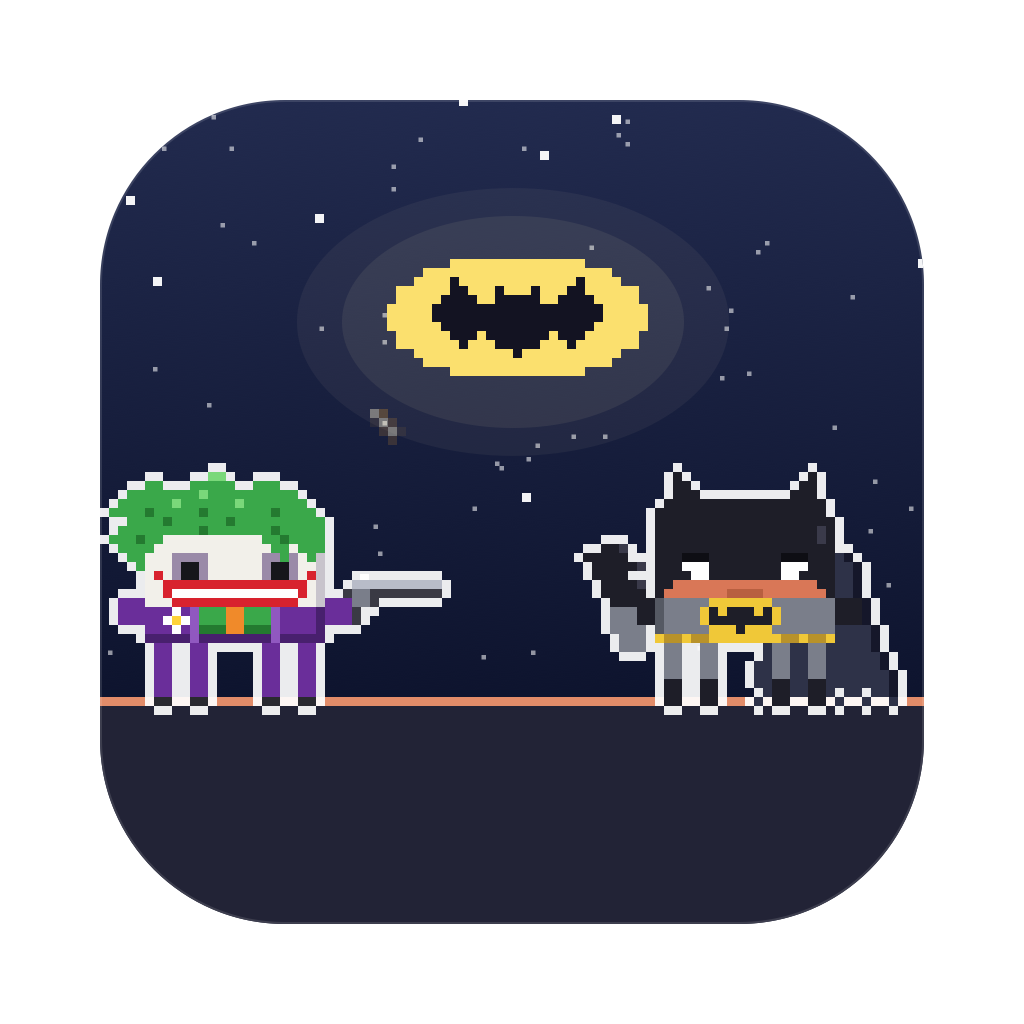
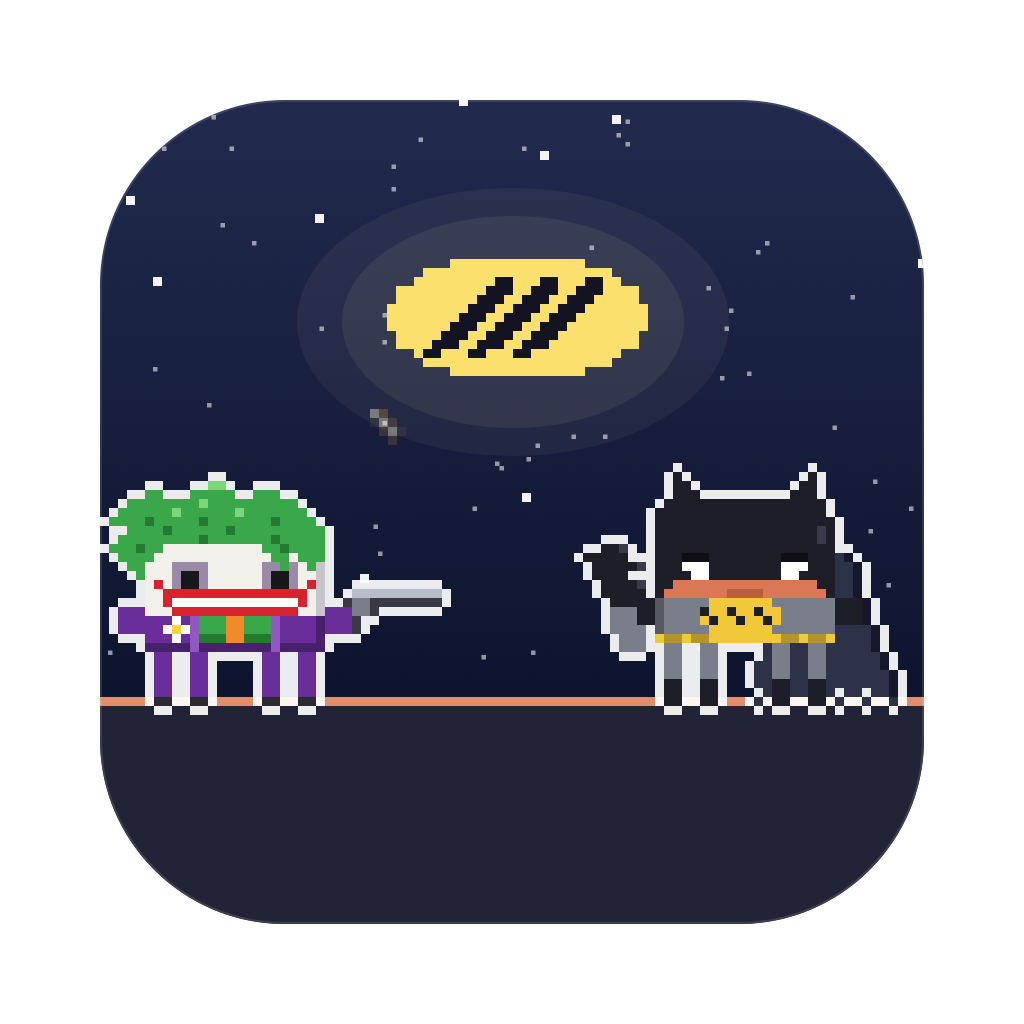
docs: re-render every picture with the parody names and redrawn emblems
The roster, places, desktop strip, social preview and the window shot
come fresh from Clawd Clash, with the parody names and the new marks
(C-shield, claw mark, lamp, flame). The icon's Bat-Signal is now the
Night Beacon, a claw mark in the yellow oval. window-gotham.png is now
window-gothamburg.png.

Changed region(s): [[0.0938, 0.4375, 0.4375, 0.6562], [0.4062, 0.25, 0.5938, 0.375], [0.6875, 0.5938, 0.75, 0.625]]

diff --git a/README.md b/README.md
@@ -90,7 +90,7 @@ The scene is set **where the first session's character belongs**: the Fortress o
 It opens in a window by default (switch to the desktop from the menu): the whole crew in a scene, with a card for every session: its project, what it's doing right now, your last prompt, its last reply, and its agents in a little tree. When no AI is running, the window steps aside, and it comes back when one starts.
 
 <p align="center">
-  <img src="docs/window-gotham.png" alt="Window mode in Gothamburg: Batclaw with Wren and Nightglider, the Jester on Codex, Harlee Quinn on Gemini CLI" width="760">
+  <img src="docs/window-gothamburg.png" alt="Window mode in Gothamburg: Batclaw with Wren and Nightglider, the Jester on Codex, Harlee Quinn on Gemini CLI" width="760">
 </p>
 
 **The screen saver** (Settings… → Screen Saver → Install…) shows the place full screen with the crew fighting across its floor, a card per session, name tags, a clock and a crawl of what happened lately, and moves somewhere new every 10 minutes with one of the fifteen transitions. With nothing running, it puts on a show of its own: a random crew of heroes against villains.
